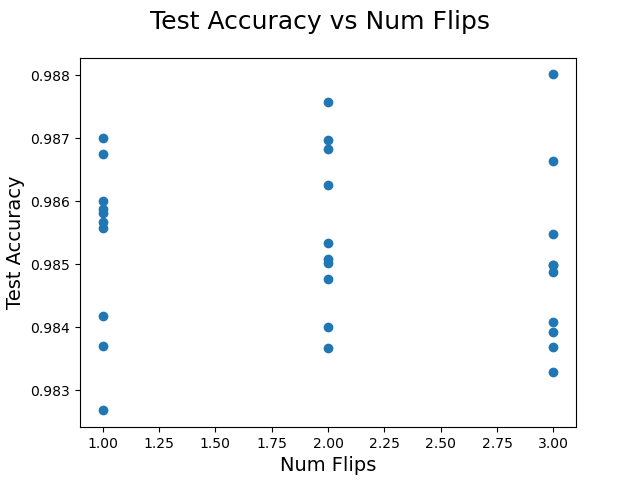
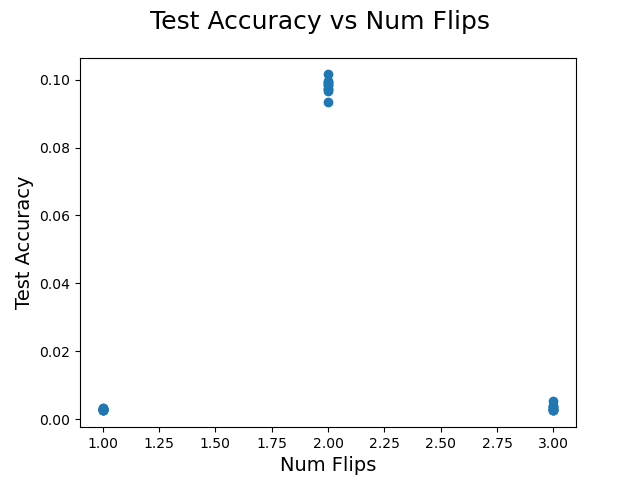
finished out of distribution experiments

diff --git a/vecbool_prob/test_vecbool.py b/vecbool_prob/test_vecbool.py
@@ -32,10 +32,6 @@ def get_testing_data(test_size, test_split_fn, test_dist):
 def test_model(model, cont_X_test, cat_X_test, y_true, y_test, num):
 	model.eval()
 	with torch.no_grad():
-		print(cont_X_test)
-		print(cat_X_test)
-		print("\n")
-
 		preds = model(cont_X_test, cat_X_test)
 		test_acc = get_num_correct(preds, y_test, k=0) / len(y_test)
 		preds = preds.max(1, keepdim=True)[1]
@@ -74,7 +70,7 @@ def main():
 	label_tuples = []
 	for test_dist in range(1, max_num_flips):
 		for i in range(10):
-			cont_x, cat_x, y_true, y_test = get_testing_data(test_size, get_test_splitA, test_dist)
+			cont_x, cat_x, y_true, y_test = get_testing_data(test_size, get_test_splitB, test_dist)
 			# This code only keeps testing data where the ground truth label matches rotated label.
 			# matching_indices = ((y_test == true_labels).nonzero(as_tuple=True)[0])
 			# if len(matching_indices) != 0:

diff --git a/vecbool_prob/vecbool_data_gen.py b/vecbool_prob/vecbool_data_gen.py
@@ -21,6 +21,7 @@ else:
 	file_path = "../pickled_files/rep_bools.pickle"
 rep_bools = load_pickle(file_path) if Path(file_path).is_file() else gen_bools()
 
+# This test_dist is used for the testing accuracy, which is looked at during training.
 test_dist = 1
 neighbor_bools = get_neighbor_bools(rep_bools, boolvec_dim, test_dist)
 
@@ -258,7 +259,6 @@ def get_test_splitA(test_size, *unused):
 
 # This test distribution tests compositionality.
 def get_test_splitB(test_size, test_dist):
-
 	global cache
 
 	X_01 = np.random.uniform(hyper_params["cont_range"][0], hyper_params["cont_range"][1], size=(test_size, hyper_params["num_cont"]))
